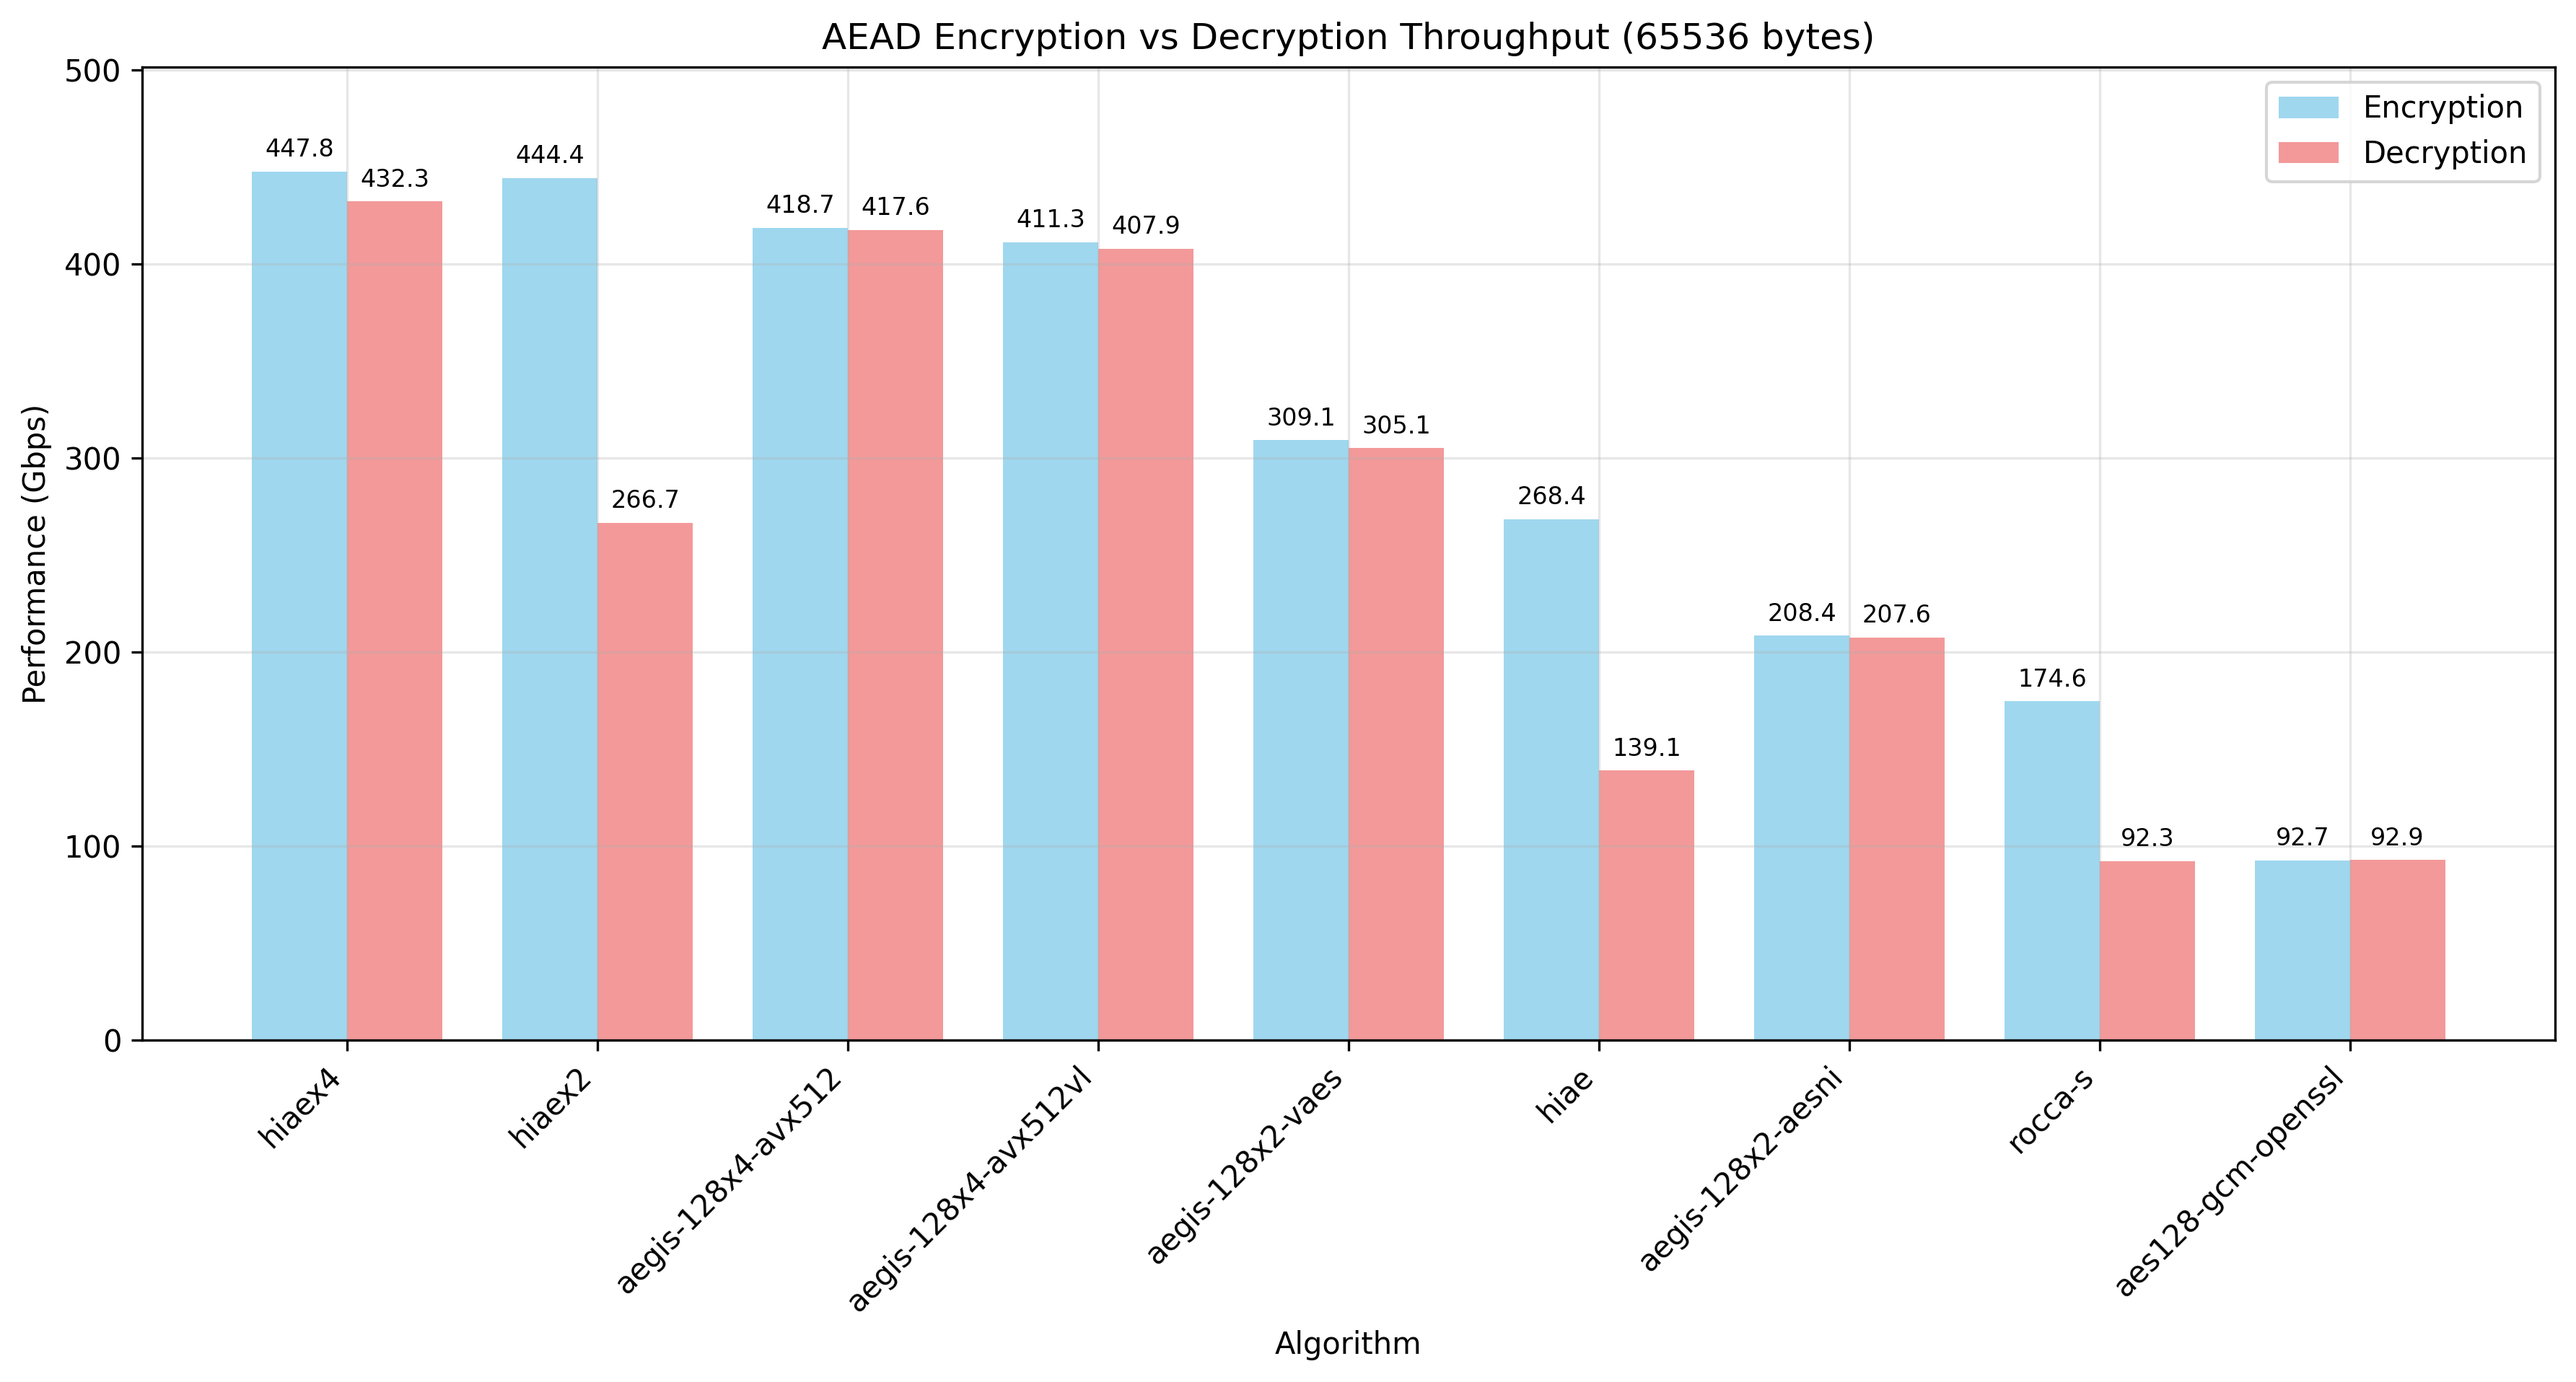
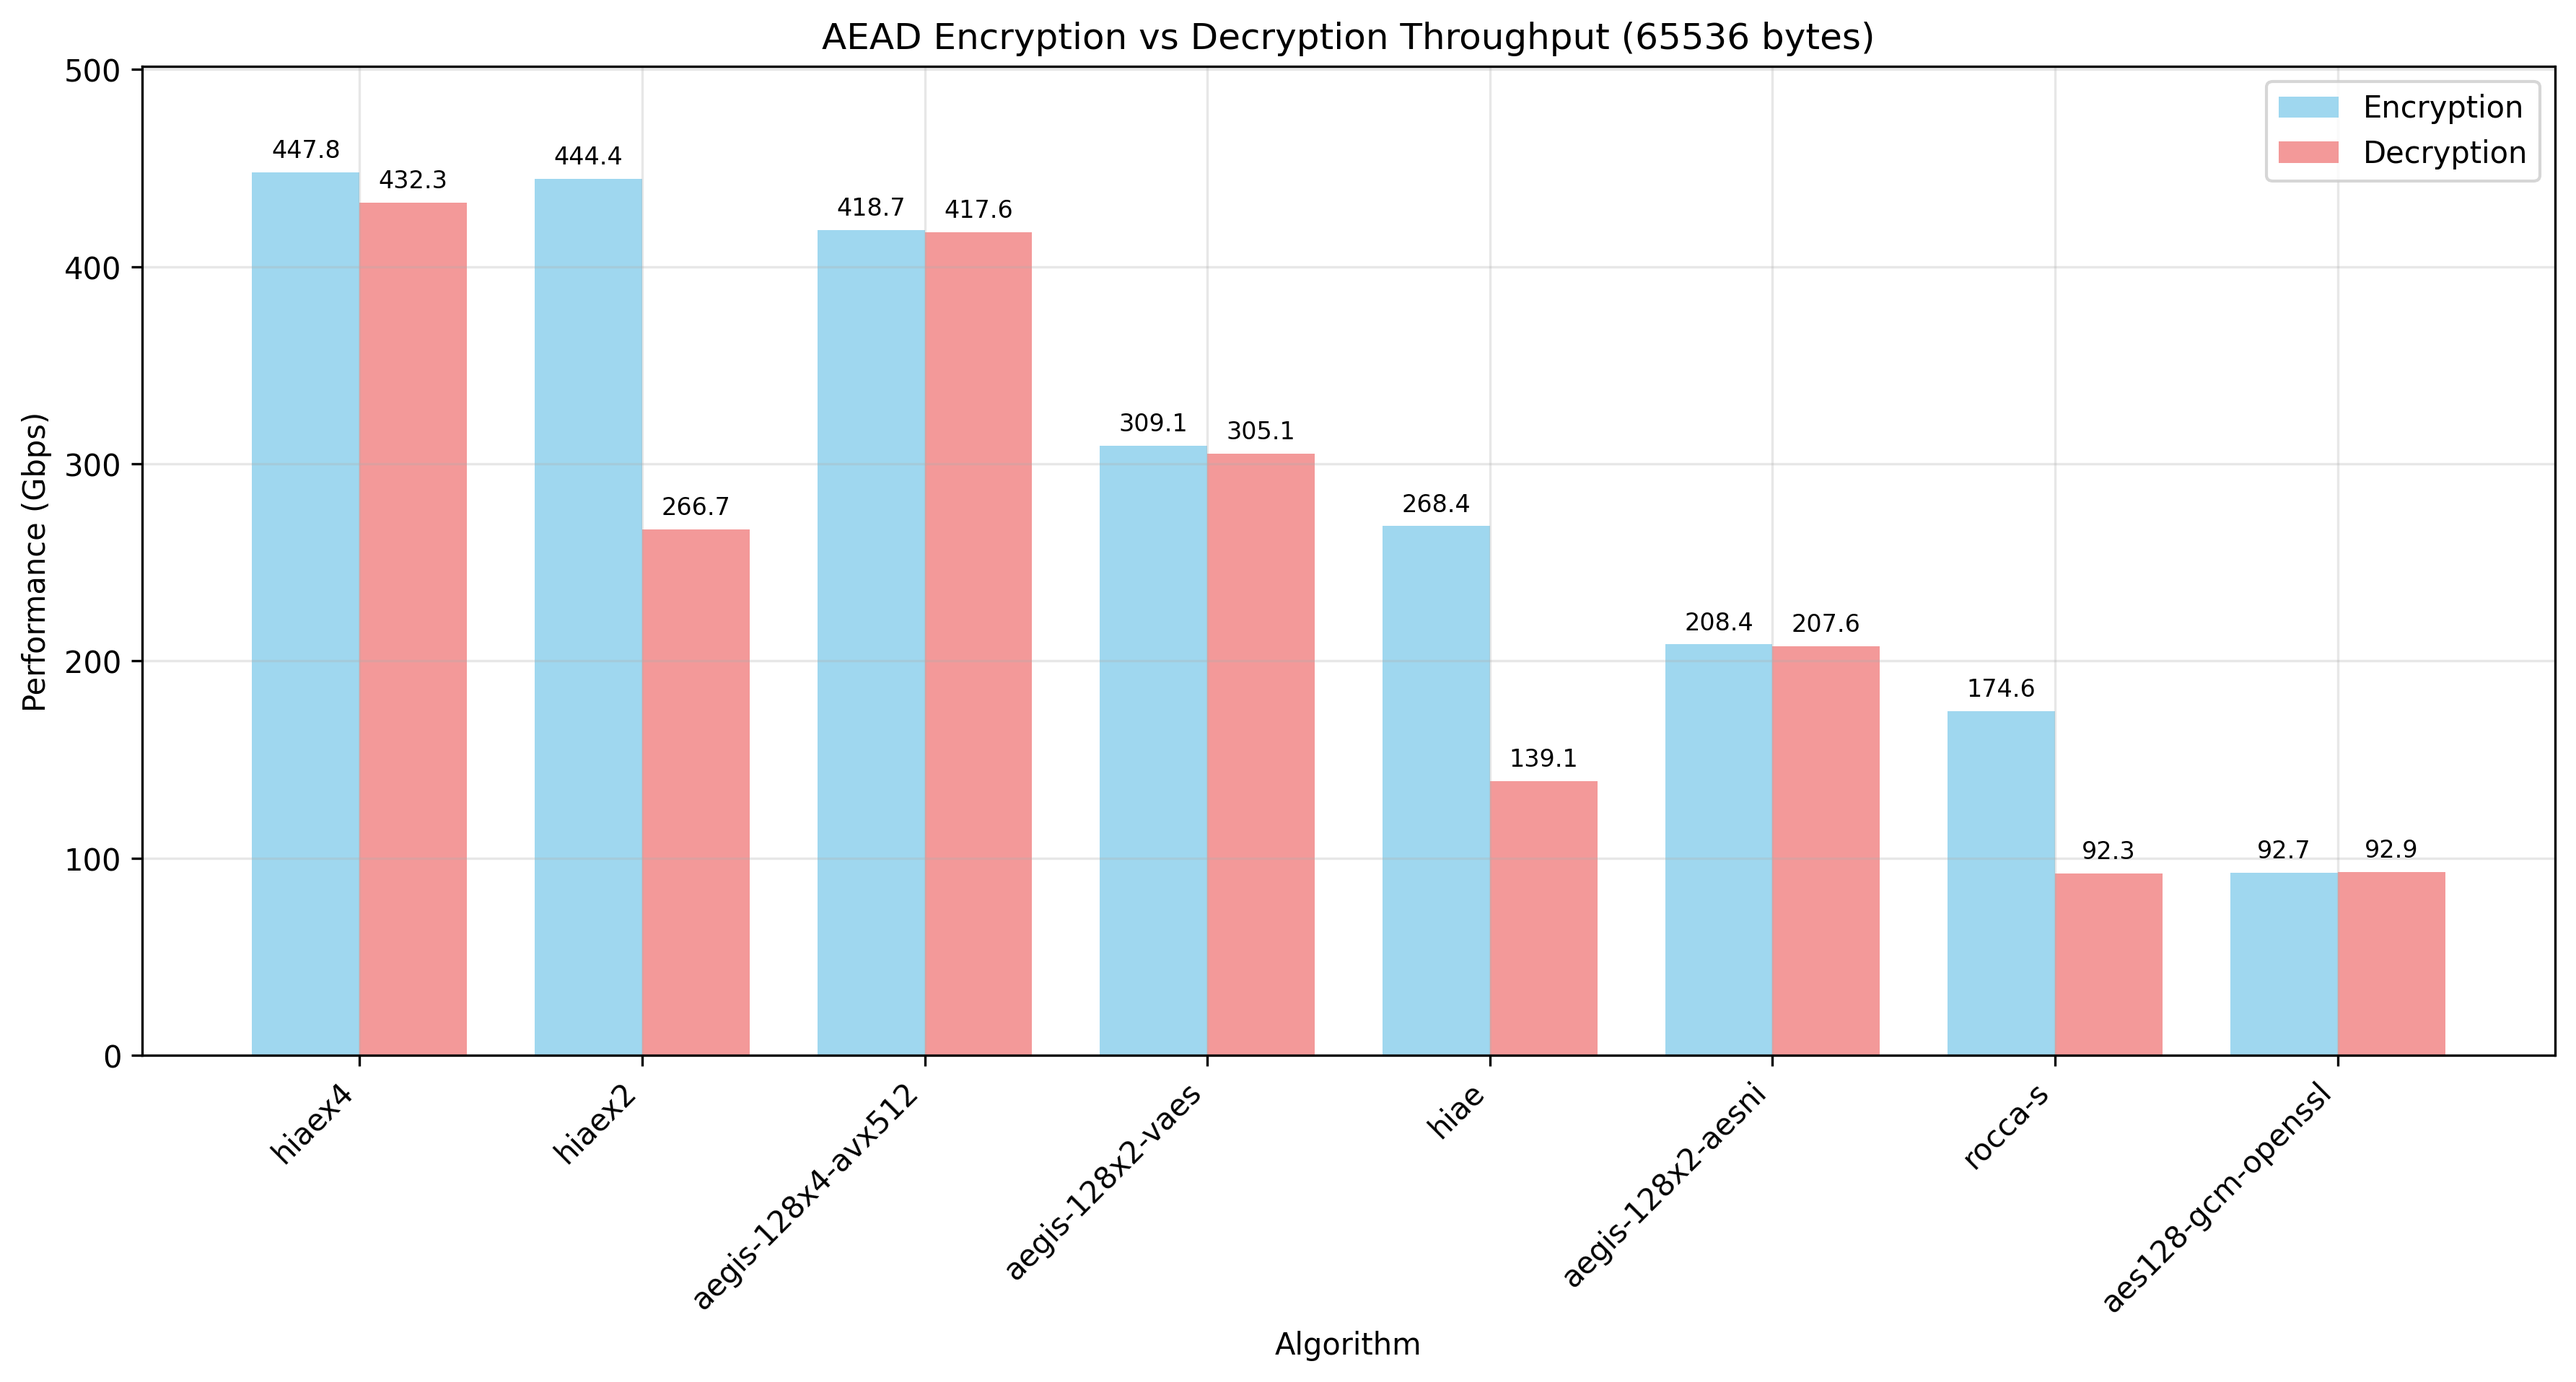
Remove aegis-128x4-avx512vl

diff --git a/README.md b/README.md
@@ -5,7 +5,7 @@ This repository contains cryptographic benchmarking implementations for various 
 ## Included Algorithms
 
 - **AEGIS-128x2** variants (AES-NI, VAES, ARM)
-- **AEGIS-128x4** variants (AVX-512, AVX-512VL)
+- **AEGIS-128x4** (AVX-512, VAES)
 - **AES-128-GCM** (OpenSSL backend)
 - **HiAE** variants (HiAE, HiAEx2, HiAEx4)
 - **ROCCA-S** cipher
@@ -50,7 +50,7 @@ The HiAE, HiAEx2 and HiAEx4 directories contain a copy of the [libhiae](https://
 
 The build system automatically detects your architecture and builds appropriate implementations:
 
-- **x86_64/Intel**: AEGIS-128x2 (AES-NI, VAES), AEGIS-128x4 (AVX-512, AVX-512VL), AES-128-GCM, HiAE, HiAEx2, HiAEx4, ROCCA-S
+- **x86_64/Intel**: AEGIS-128x2 (AES-NI, VAES), AEGIS-128x4 (AVX-512), AES-128-GCM, HiAE, HiAEx2, HiAEx4, ROCCA-S
 - **ARM64**: AEGIS-128x2 (ARM crypto extensions), AES-128-GCM, HiAE, HiAEx2, HiAEx4, ROCCA-S
 
 Note: Some implementations require specific CPU features:
@@ -58,17 +58,11 @@ Note: Some implementations require specific CPU features:
 - AEGIS-128x2-aesni: AES-NI, AVX
 - AEGIS-128x2-vaes: AES-NI, AVX2, VAES
 - AEGIS-128x4-avx512: AVX-512F, VAES
-- AEGIS-128x4-avx512vl: AVX-512F, AVX-512VL, VAES
 - AES-128-GCM: OpenSSL library
 - HiAEx4 on x86_64: AVX-512F, AVX-512VL and VAES, otherwise it falls back to a much slower portable implementation
 
-The AEGIS-128x4 implementations include the optimizations from libaegis commit `7cc9284`.
-
-The `avx512` variant uses 512-bit vectors, while `avx512vl` splits each state block into two 256-bit vectors and uses AVX-512VL instructions and registers.
-This gives CPUs that execute 512-bit AES operations in two passes more freedom to schedule the work.
-
-Both variants are built and benchmarked separately so their performance can be compared on the same CPU.
-Their tests check libaegis vectors, block boundaries, in-place operation, and authentication failures.
+The AEGIS-128x4 implementation includes the optimizations from libaegis commit `7cc9284`.
+Its tests check libaegis vectors, block boundaries, in-place operation, and authentication failures.
 
 ## Performance Testing
 
@@ -121,7 +115,7 @@ These plots predate the keystream-XOR benchmark paths, so what they label as enc
 
 ### AMD Zen 4 (Ryzen 7 7700, clang 21)
 
-Measured with clang 21.1.8 and OpenSSL 3.5.5 on an otherwise idle machine, with the `performance` governor and frequency boost disabled so the clock stays at 3.8 GHz. The run-to-run variation stayed at or below 0.11%.
+Measured with clang 21.1.8 and OpenSSL 3.5.5 on an otherwise idle machine, with the `performance` governor and frequency boost disabled so the clock stays at 3.8 GHz. The run-to-run variation stayed at or below 0.11% for the 64 KB numbers below, growing to about 2% for the smallest messages.
 
 <p align="center">
   <img src=".media/zen4/throughput_comparison_zen4.png" width="600" alt="Zen 4 AEAD throughput, encryption against decryption">
